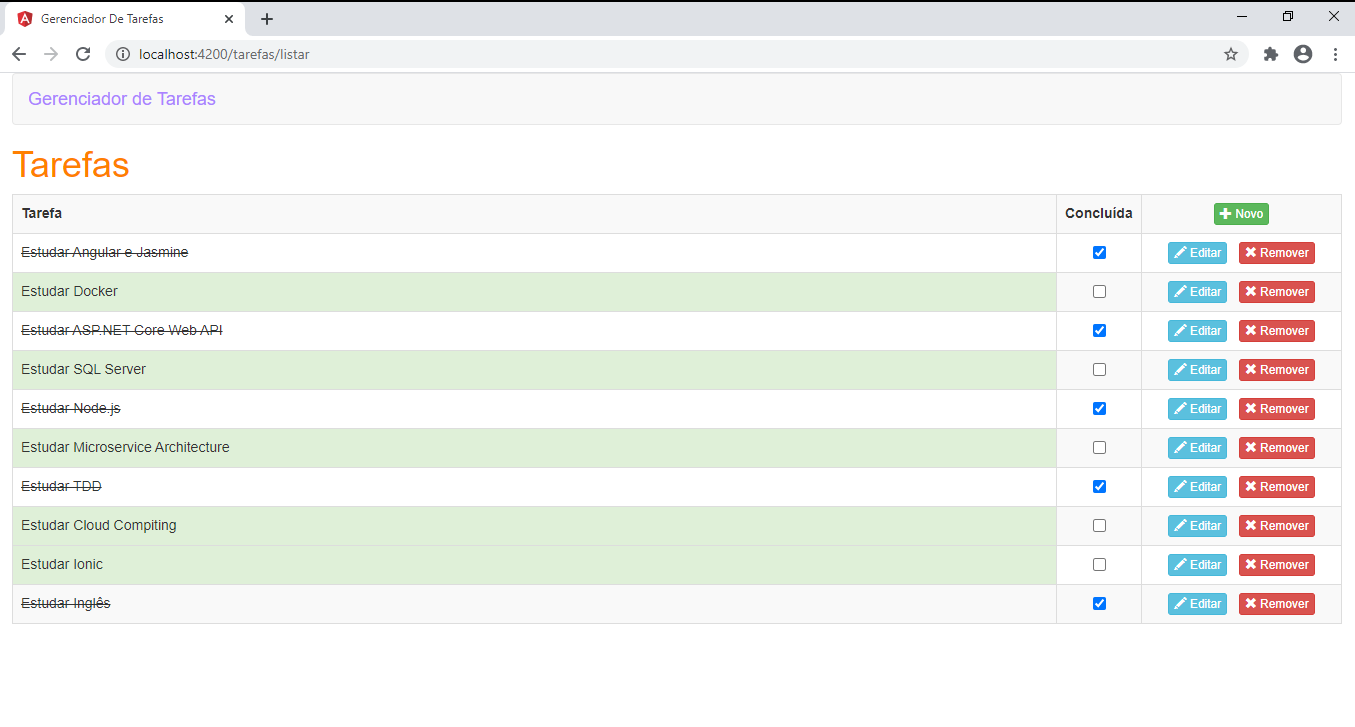
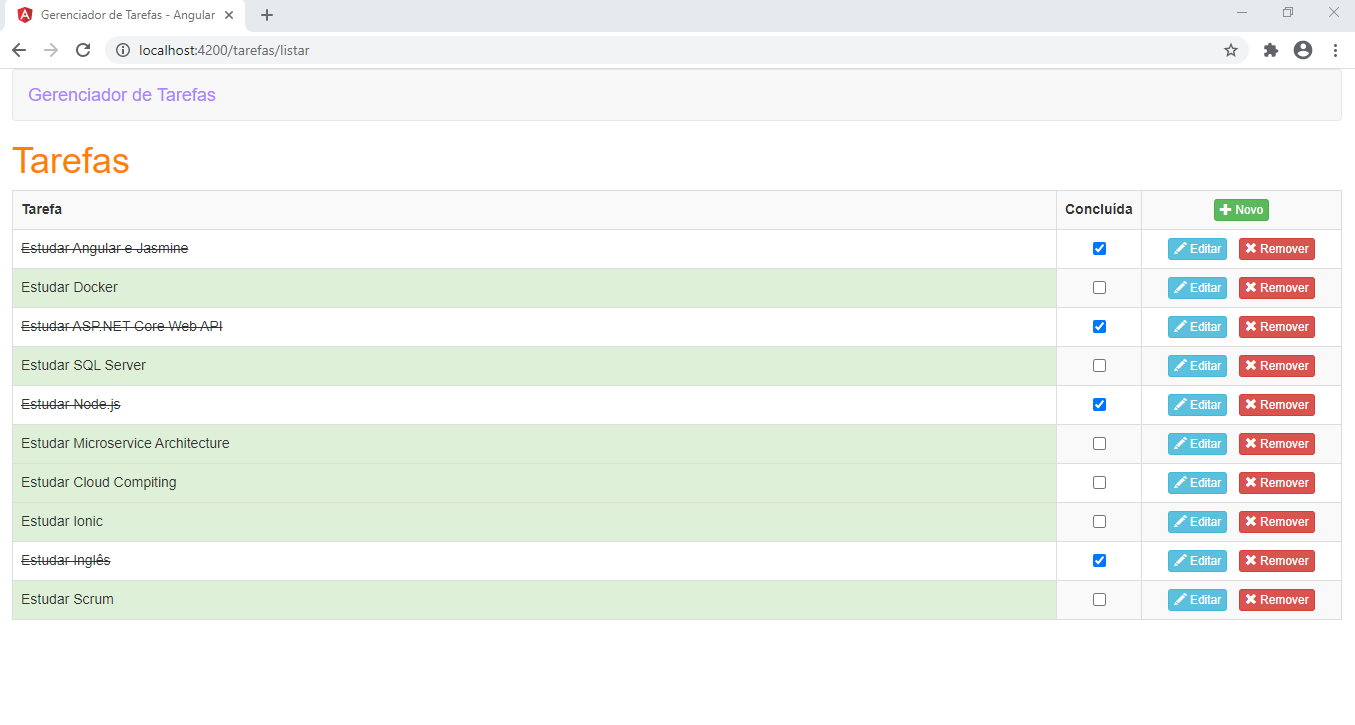
Refatorando elementos

diff --git a/src/index.html b/src/index.html
@@ -2,7 +2,7 @@
 <html lang="pt-br">
 <head>
   <meta charset="utf-8">
-  <title>Gerenciador De Tarefas</title>
+  <title>Gerenciador de Tarefas - Angular</title>
   <base href="/">
   <meta name="viewport" content="width=device-width, initial-scale=1">
   <link rel="icon" type="image/x-icon" href="favicon.ico">
